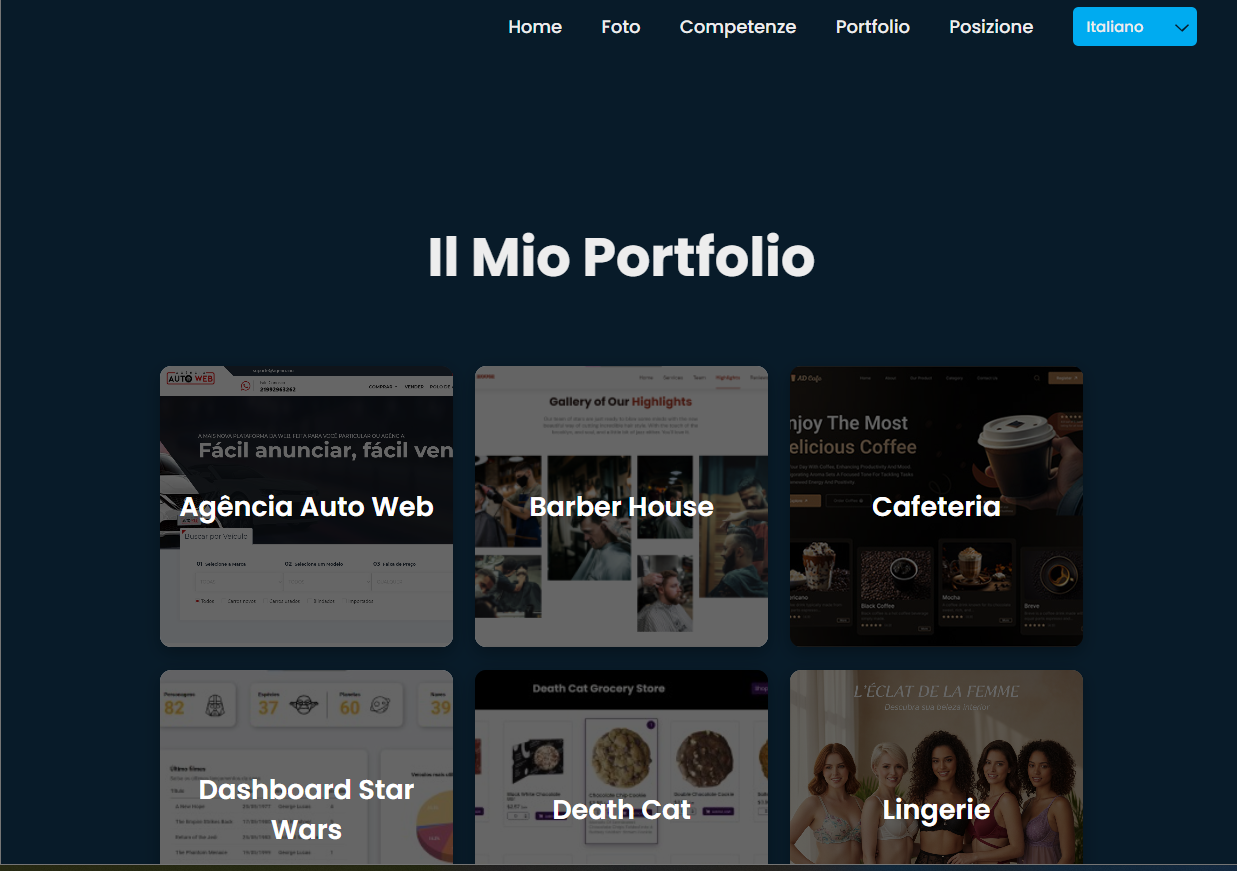
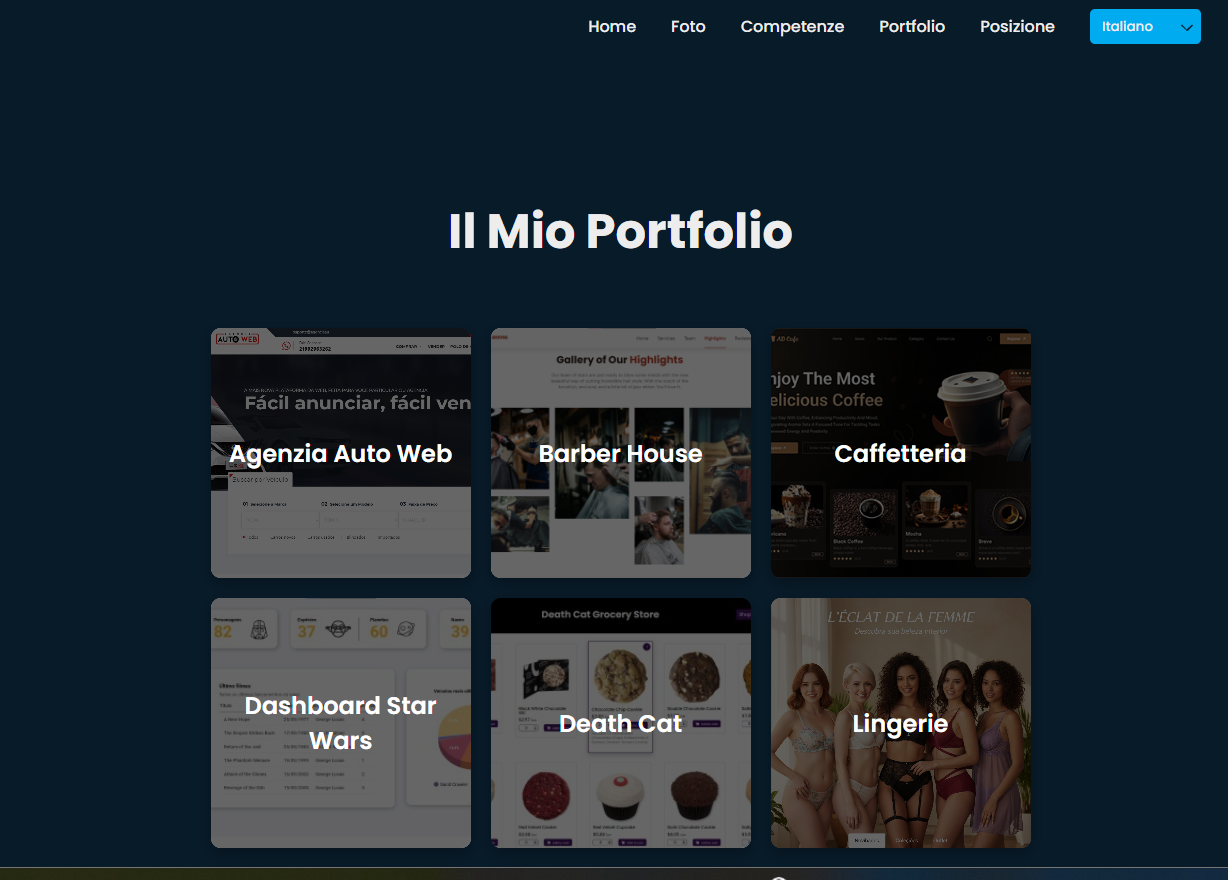
fix: Corrige tradução de 'Lingerie' para italiano e atualiza versão do CSS.

diff --git a/portfolio.html b/portfolio.html
@@ -4,7 +4,7 @@
     <meta charset="UTF-8">
     <meta name="viewport" content="width=device-width, initial-scale=1.0">
     <title data-i18n="page_title_portfolio">Portfólio - Edney Pugliese</title>
-    <link rel="stylesheet" href="style.css?v=1.37">
+    <link rel="stylesheet" href="style.css?v=1.38">
     <link rel="stylesheet" href="https://cdnjs.cloudflare.com/ajax/libs/font-awesome/6.0.0-beta3/css/all.min.css">
 </head>
 <body>
